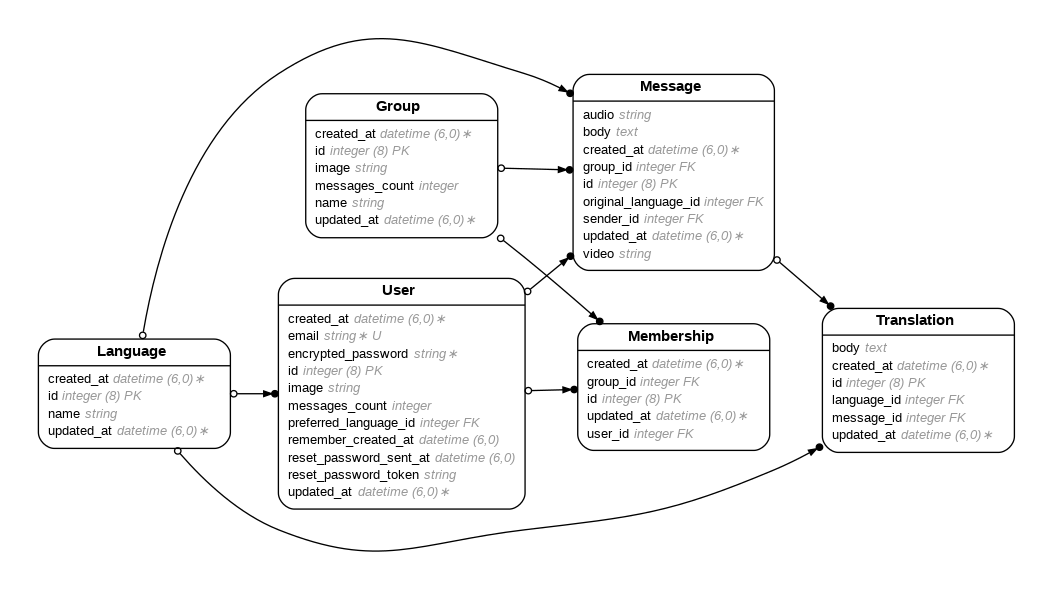
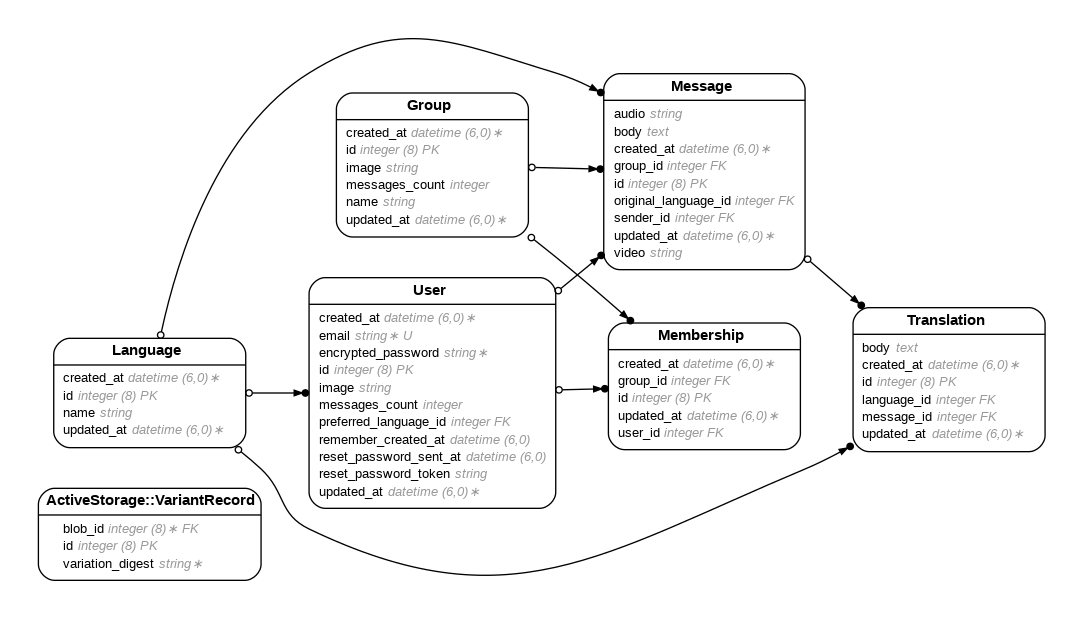
User image upload still not working, but Devise otherwise done!

diff --git a/db/schema.rb b/db/schema.rb
@@ -10,9 +10,37 @@
 #
 # It's strongly recommended that you check this file into your version control system.
 
-ActiveRecord::Schema[8.0].define(version: 2025_05_25_190631) do
+ActiveRecord::Schema[8.0].define(version: 2025_05_28_193826) do
   # These are extensions that must be enabled in order to support this database
   enable_extension "pg_catalog.plpgsql"
+
+  create_table "active_storage_attachments", force: :cascade do |t|
+    t.string "name", null: false
+    t.string "record_type", null: false
+    t.bigint "record_id", null: false
+    t.bigint "blob_id", null: false
+    t.datetime "created_at", null: false
+    t.index ["blob_id"], name: "index_active_storage_attachments_on_blob_id"
+    t.index ["record_type", "record_id", "name", "blob_id"], name: "index_active_storage_attachments_uniqueness", unique: true
+  end
+
+  create_table "active_storage_blobs", force: :cascade do |t|
+    t.string "key", null: false
+    t.string "filename", null: false
+    t.string "content_type"
+    t.text "metadata"
+    t.string "service_name", null: false
+    t.bigint "byte_size", null: false
+    t.string "checksum"
+    t.datetime "created_at", null: false
+    t.index ["key"], name: "index_active_storage_blobs_on_key", unique: true
+  end
+
+  create_table "active_storage_variant_records", force: :cascade do |t|
+    t.bigint "blob_id", null: false
+    t.string "variation_digest", null: false
+    t.index ["blob_id", "variation_digest"], name: "index_active_storage_variant_records_uniqueness", unique: true
+  end
 
   create_table "groups", force: :cascade do |t|
     t.string "name"
@@ -211,6 +239,8 @@ ActiveRecord::Schema[8.0].define(version: 2025_05_25_190631) do
     t.index ["reset_password_token"], name: "index_users_on_reset_password_token", unique: true
   end
 
+  add_foreign_key "active_storage_attachments", "active_storage_blobs", column: "blob_id"
+  add_foreign_key "active_storage_variant_records", "active_storage_blobs", column: "blob_id"
   add_foreign_key "solid_queue_blocked_executions", "solid_queue_jobs", column: "job_id", on_delete: :cascade
   add_foreign_key "solid_queue_claimed_executions", "solid_queue_jobs", column: "job_id", on_delete: :cascade
   add_foreign_key "solid_queue_failed_executions", "solid_queue_jobs", column: "job_id", on_delete: :cascade

diff --git a/db/migrate/20250528193826_create_active_storage_tables.active_storage.rb b/db/migrate/20250528193826_create_active_storage_tables.active_storage.rb
@@ -1,0 +1,57 @@
+# This migration comes from active_storage (originally 20170806125915)
+class CreateActiveStorageTables < ActiveRecord::Migration[7.0]
+  def change
+    # Use Active Record's configured type for primary and foreign keys
+    primary_key_type, foreign_key_type = primary_and_foreign_key_types
+
+    create_table :active_storage_blobs, id: primary_key_type do |t|
+      t.string   :key,          null: false
+      t.string   :filename,     null: false
+      t.string   :content_type
+      t.text     :metadata
+      t.string   :service_name, null: false
+      t.bigint   :byte_size,    null: false
+      t.string   :checksum
+
+      if connection.supports_datetime_with_precision?
+        t.datetime :created_at, precision: 6, null: false
+      else
+        t.datetime :created_at, null: false
+      end
+
+      t.index [ :key ], unique: true
+    end
+
+    create_table :active_storage_attachments, id: primary_key_type do |t|
+      t.string     :name,     null: false
+      t.references :record,   null: false, polymorphic: true, index: false, type: foreign_key_type
+      t.references :blob,     null: false, type: foreign_key_type
+
+      if connection.supports_datetime_with_precision?
+        t.datetime :created_at, precision: 6, null: false
+      else
+        t.datetime :created_at, null: false
+      end
+
+      t.index [ :record_type, :record_id, :name, :blob_id ], name: :index_active_storage_attachments_uniqueness, unique: true
+      t.foreign_key :active_storage_blobs, column: :blob_id
+    end
+
+    create_table :active_storage_variant_records, id: primary_key_type do |t|
+      t.belongs_to :blob, null: false, index: false, type: foreign_key_type
+      t.string :variation_digest, null: false
+
+      t.index [ :blob_id, :variation_digest ], name: :index_active_storage_variant_records_uniqueness, unique: true
+      t.foreign_key :active_storage_blobs, column: :blob_id
+    end
+  end
+
+  private
+    def primary_and_foreign_key_types
+      config = Rails.configuration.generators
+      setting = config.options[config.orm][:primary_key_type]
+      primary_key_type = setting || :primary_key
+      foreign_key_type = setting || :bigint
+      [ primary_key_type, foreign_key_type ]
+    end
+end

diff --git a/app/models/user.rb b/app/models/user.rb
@@ -31,4 +31,7 @@ class User < ApplicationRecord
   belongs_to :preferred_language, required: true, class_name: "Language", foreign_key: "preferred_language_id"
 
   has_many :groups, through: :memberships, source: :group
+
+  has_one_attached :image
+
 end

diff --git a/app/controllers/users/registrations_controller.rb b/app/controllers/users/registrations_controller.rb
@@ -67,4 +67,10 @@ class Users::RegistrationsController < Devise::RegistrationsController
       end
     end
   end
+
+  protected
+
+  def after_update_path_for(resource)
+    edit_user_registration_path
+  end
 end
